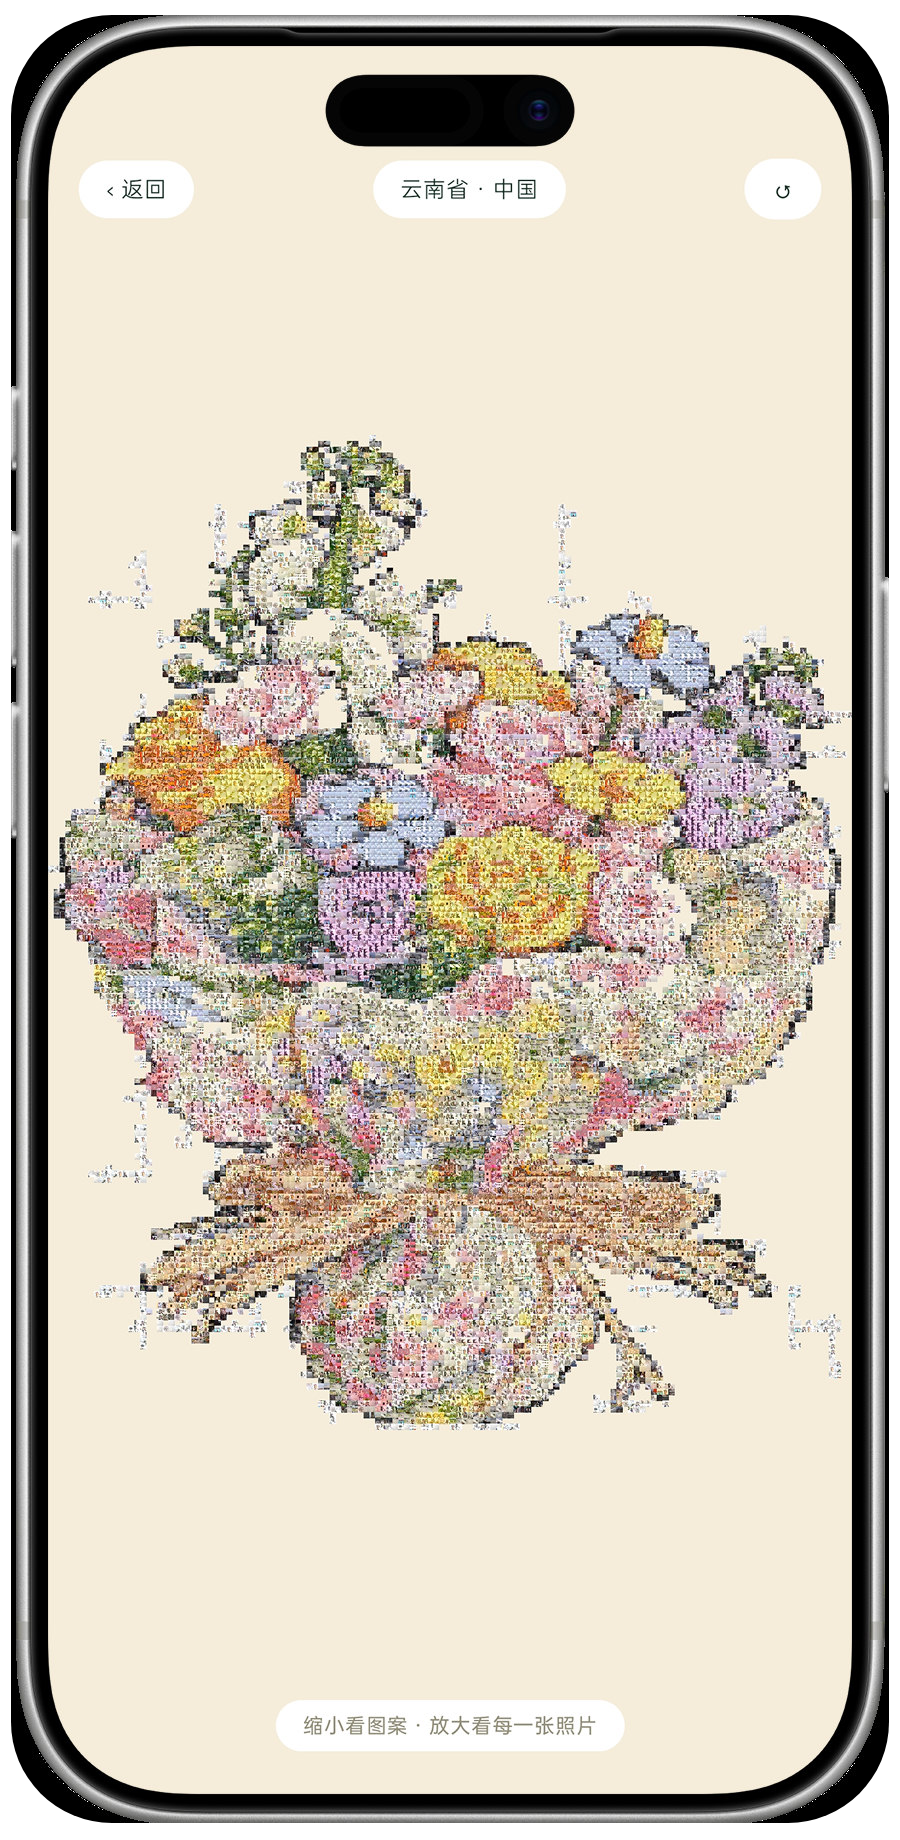
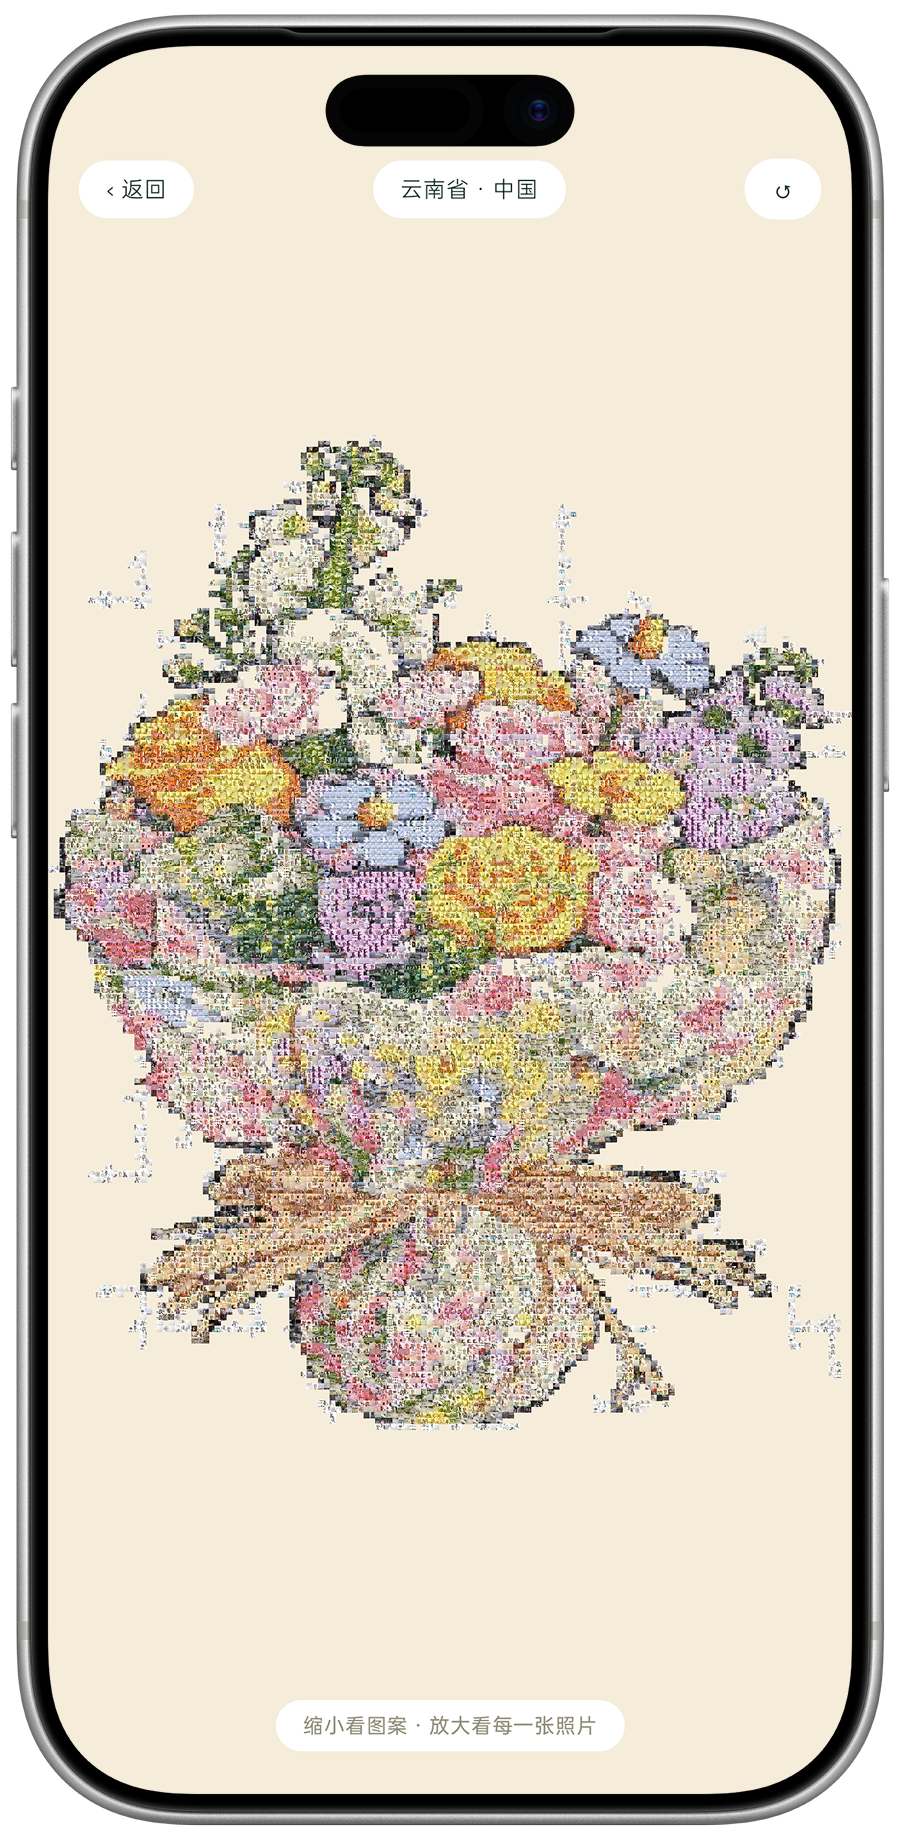
更新 EXPORT 卡片文案与示意图

diff --git a/src/pages/LandingPage.tsx b/src/pages/LandingPage.tsx
@@ -25,7 +25,7 @@ const FEATURES = [
   { icon: 'burger', label: 'ZOOM IN', tone: 'blue',  tag: '远看 / 近看', title: '远看是一颗拼豆，近看全是回忆', desc: '把同地点的照片分类成合集，生成专属的拼豆照片墙。远看是一幅完整图案，放大后，每一颗拼豆都是你在那里留下的一个瞬间。' },
   { icon: 'cola',   label: 'MEMORY',  tone: 'mint',  tag: '生活碎片',     title: '用相册碎片，拼出生活故事', desc: 'Memory Beads 会根据地点整理自拍、旅行和日常照片。那些散落在相册里的生活片段，会被重新拼成一张有趣的回忆图，让你用另一种方式回顾过去。' },
   { icon: 'wing',   label: 'STYLE',   tone: 'peach', tag: '一键生成',     title: '随机生成专属拼豆图案', desc: '根据每个相册合集里的照片数量，自动生成合适的拼豆图案。照片越多，拼豆越丰富，每次生成都有不一样的惊喜。' },
-  { icon: 'fries',  label: 'EXPORT',  tone: 'pink',  tag: '可打印',       title: '可保存、可分享、可打印', desc: '生成后的作品可以保存成手机壁纸，也可以分享到社媒，或打印出来。不只是数字图片，也可以变成一份真实的纪念。' },
+  { icon: 'fries',  label: 'EXPORT',  tone: 'pink',  tag: '可打印',       title: '把回忆装进拍立得', desc: '点开每一张照片，都像翻开一张专属拍立得，照片下方记录着当时的时间与地点。' },
 ];
 
 // scroll-driven layout: 4 cards go from a stacked deck (center) → diagonal spread